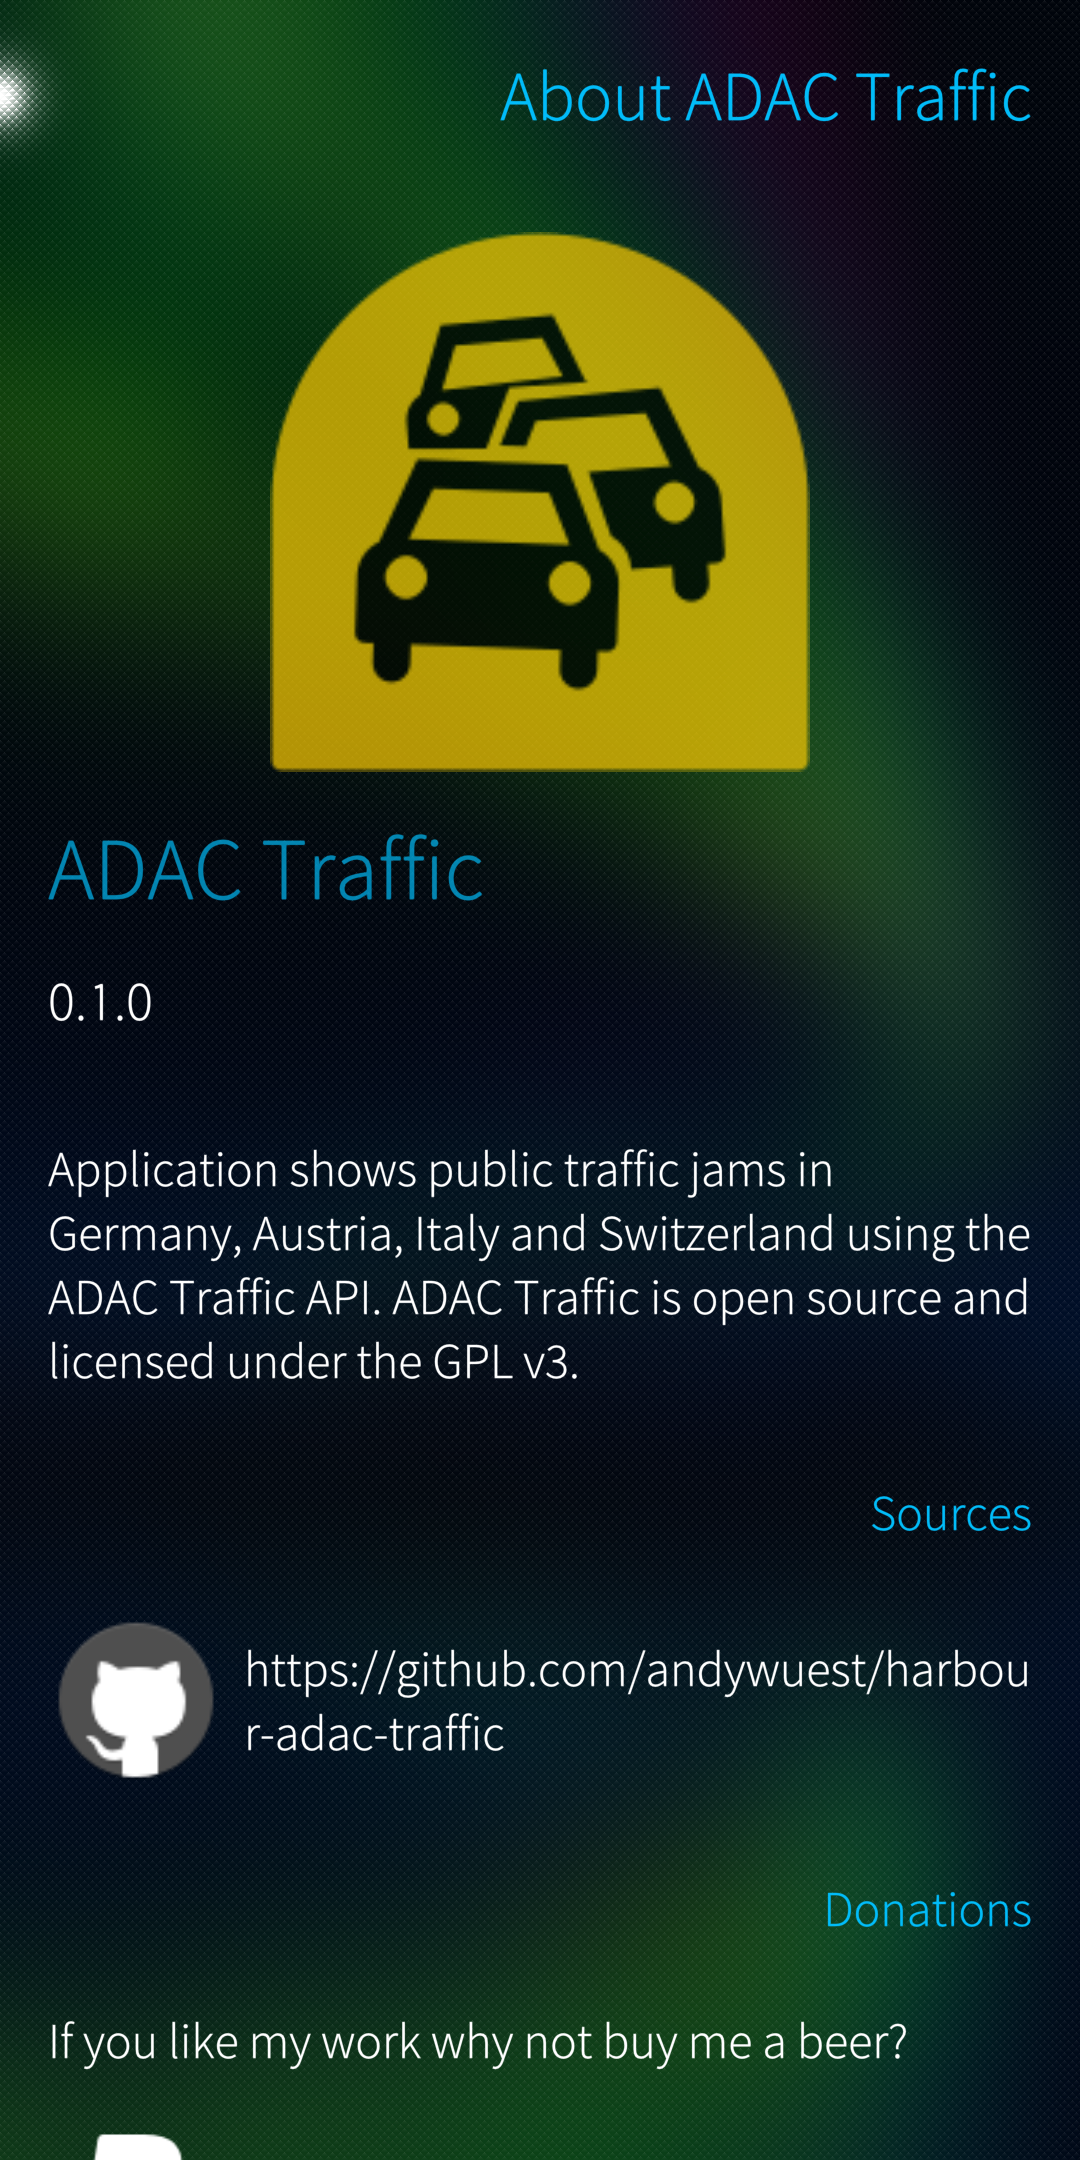
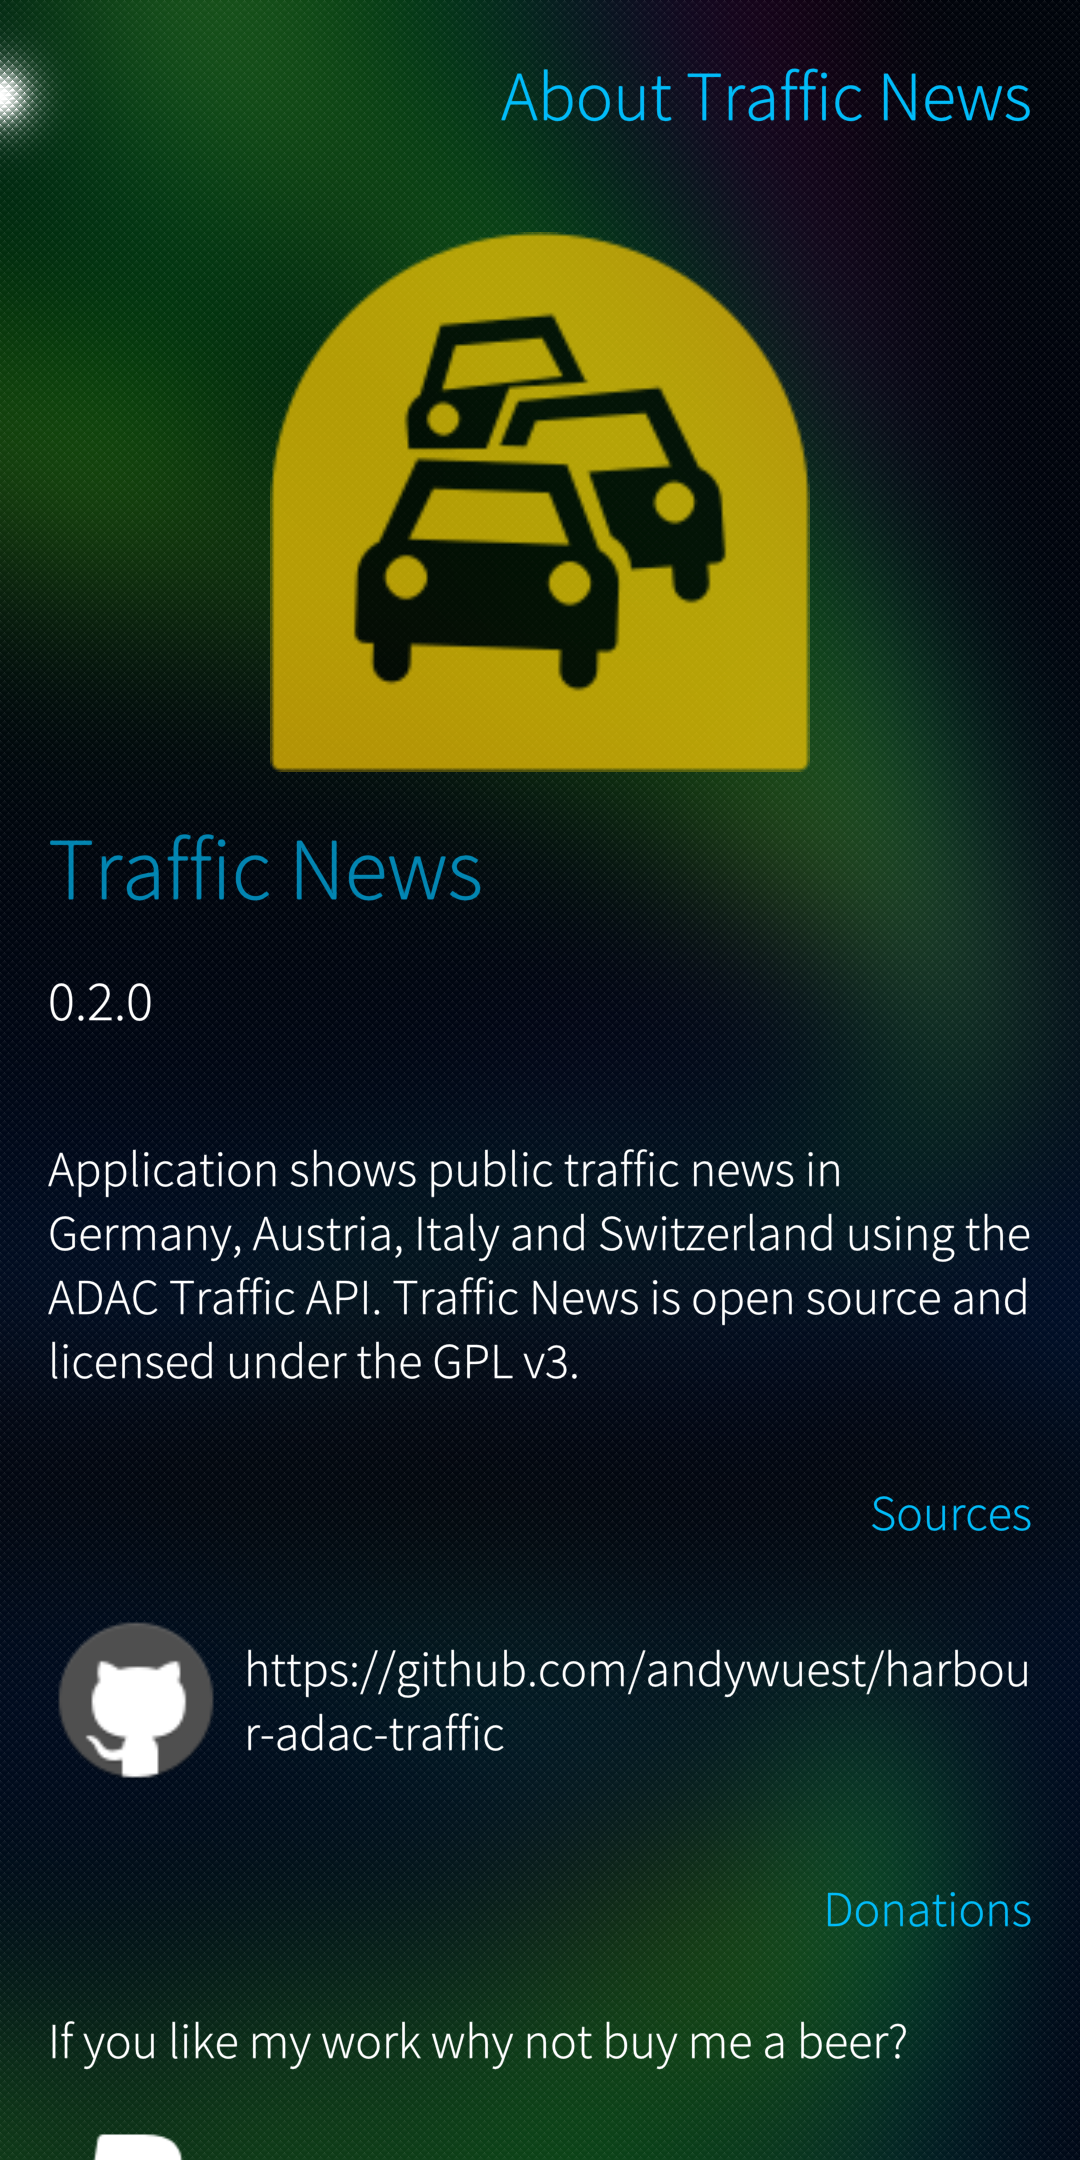
added cover page screenshot / fixed about dialog;

diff --git a/README.md b/README.md
@@ -20,6 +20,7 @@ Andreas Wüst [andreas.wuest.freelancer@gmail.com](mailto:andreas.wuest.freelanc
 ![Traffic News](/screenshots/traffic_news_small.png?raw=true "Traffic News")
 ![Settings Page](/screenshots/settings_page_small.png?raw=true "Settings Page")
 ![About Dialog](/screenshots/about_page_small.png?raw=true "About Dialog")
+![Cover Page](/screenshots/cover_page_small.png?raw=true "Cover Page")
 
 ## Build
 Simply clone this repository.
